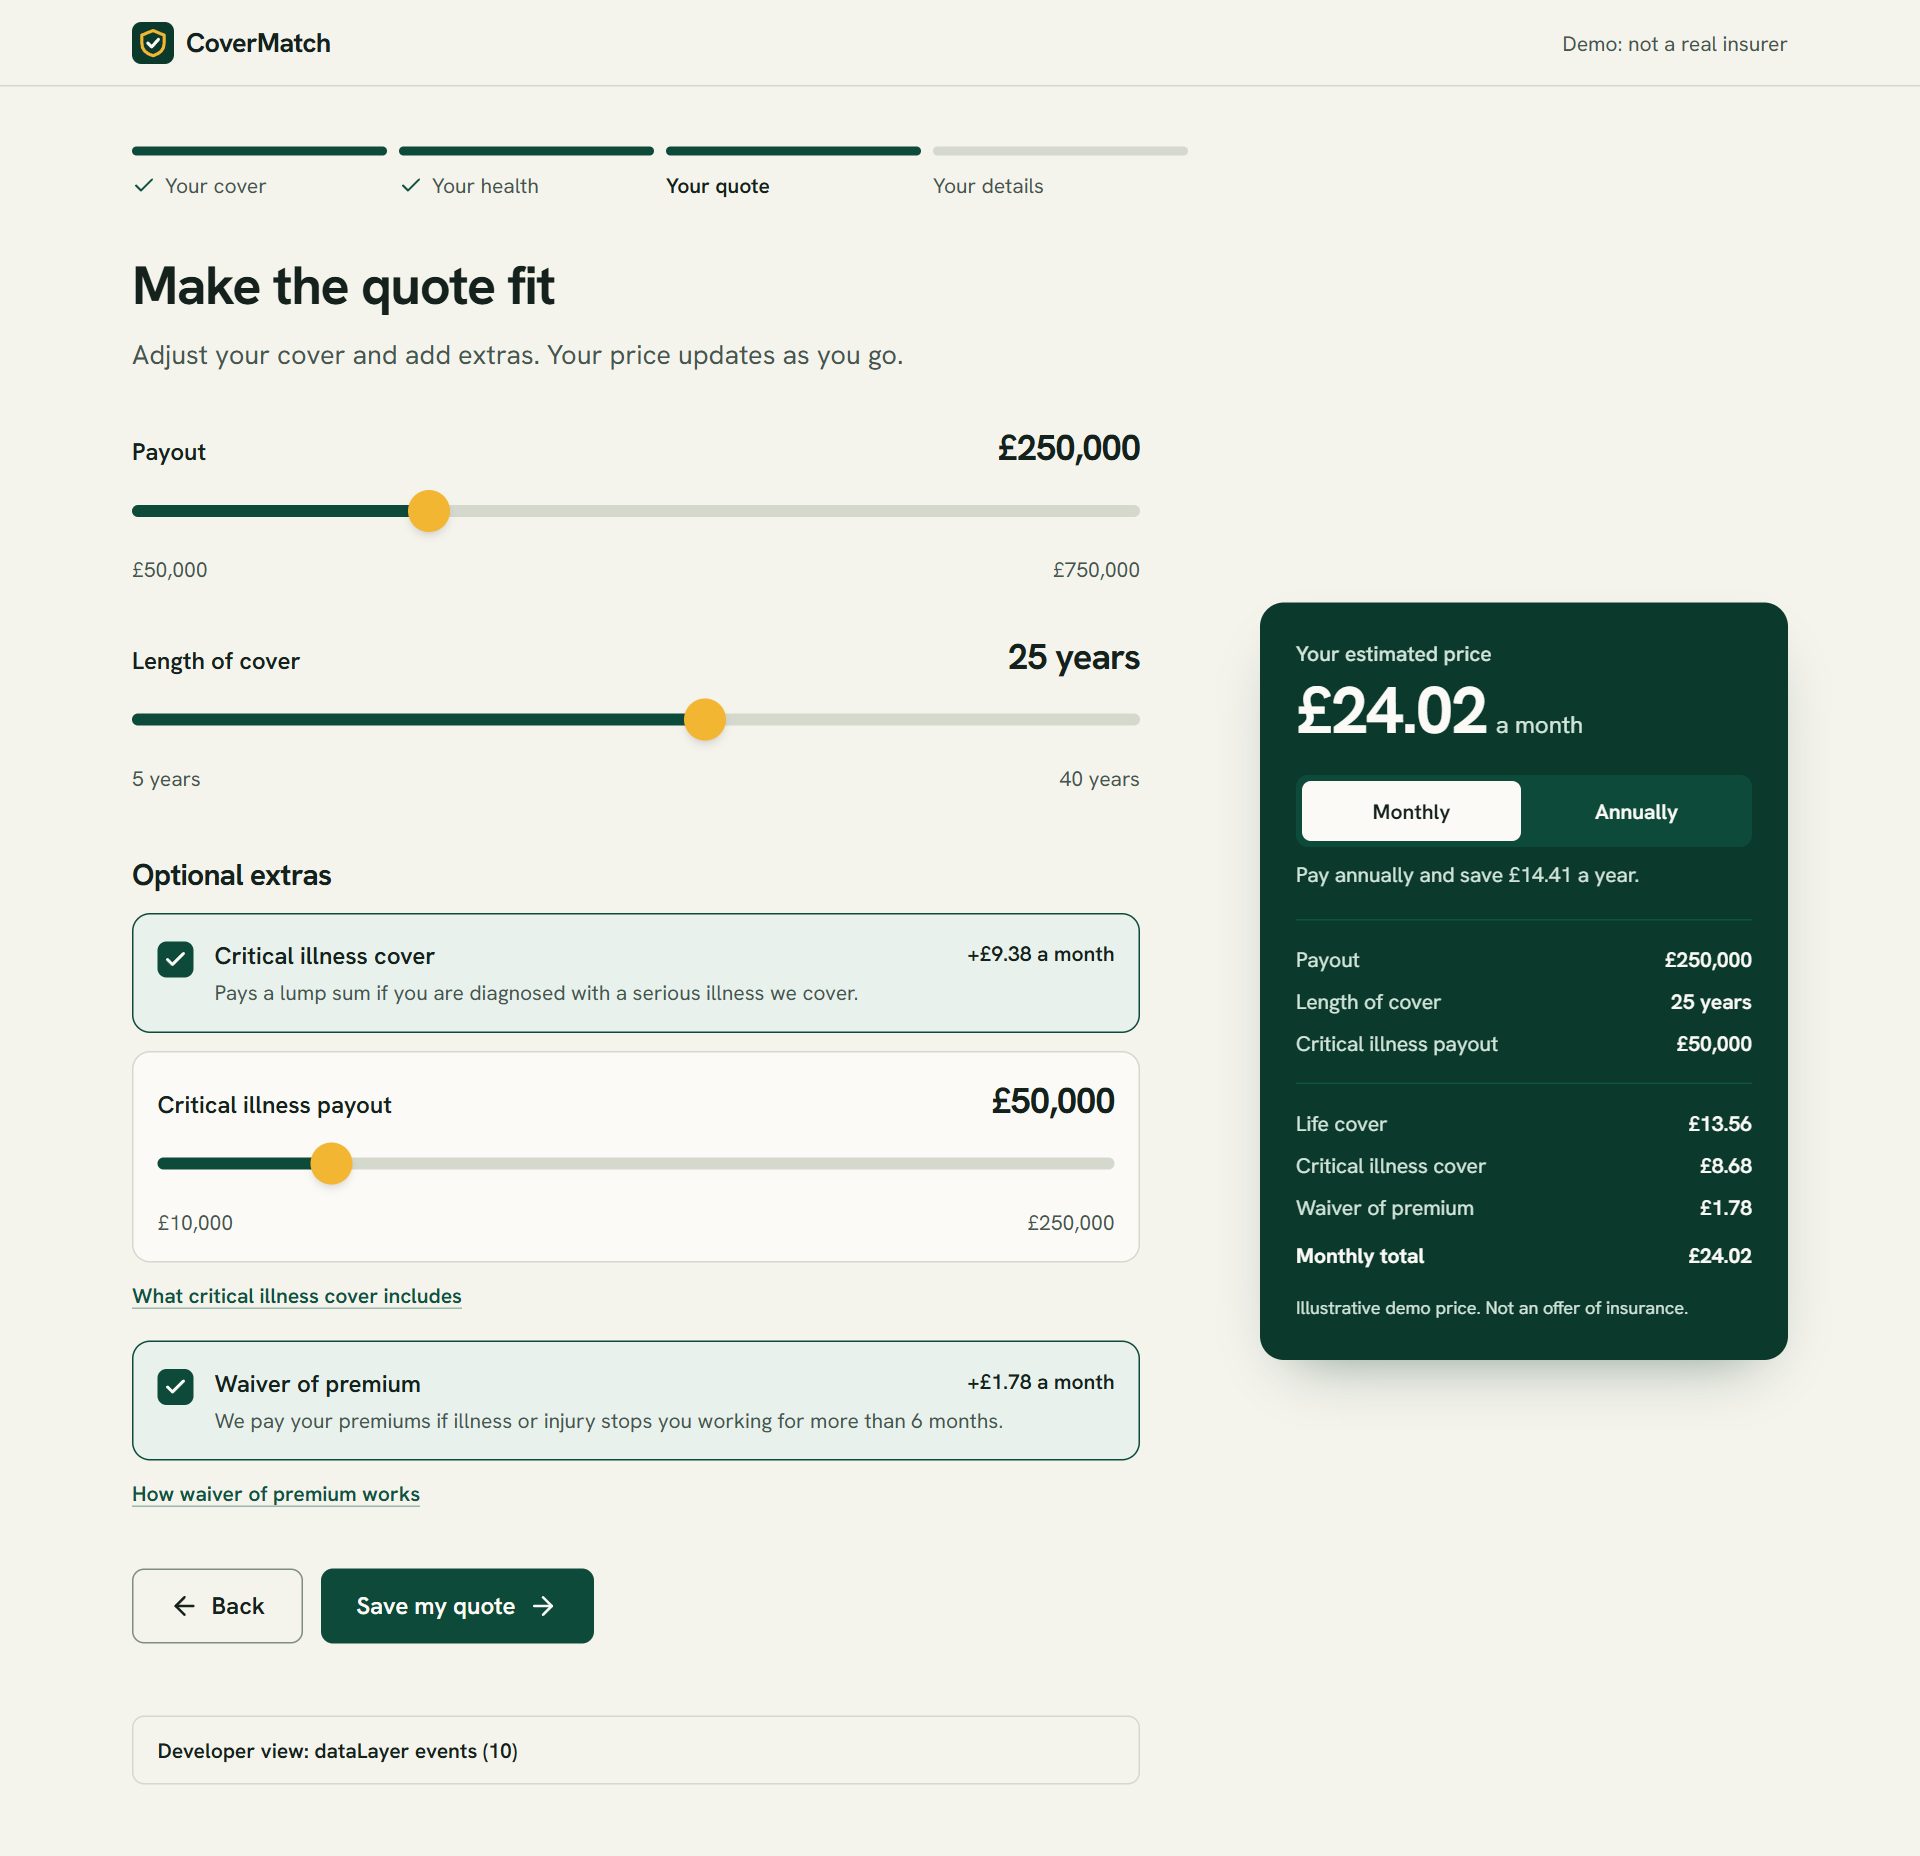
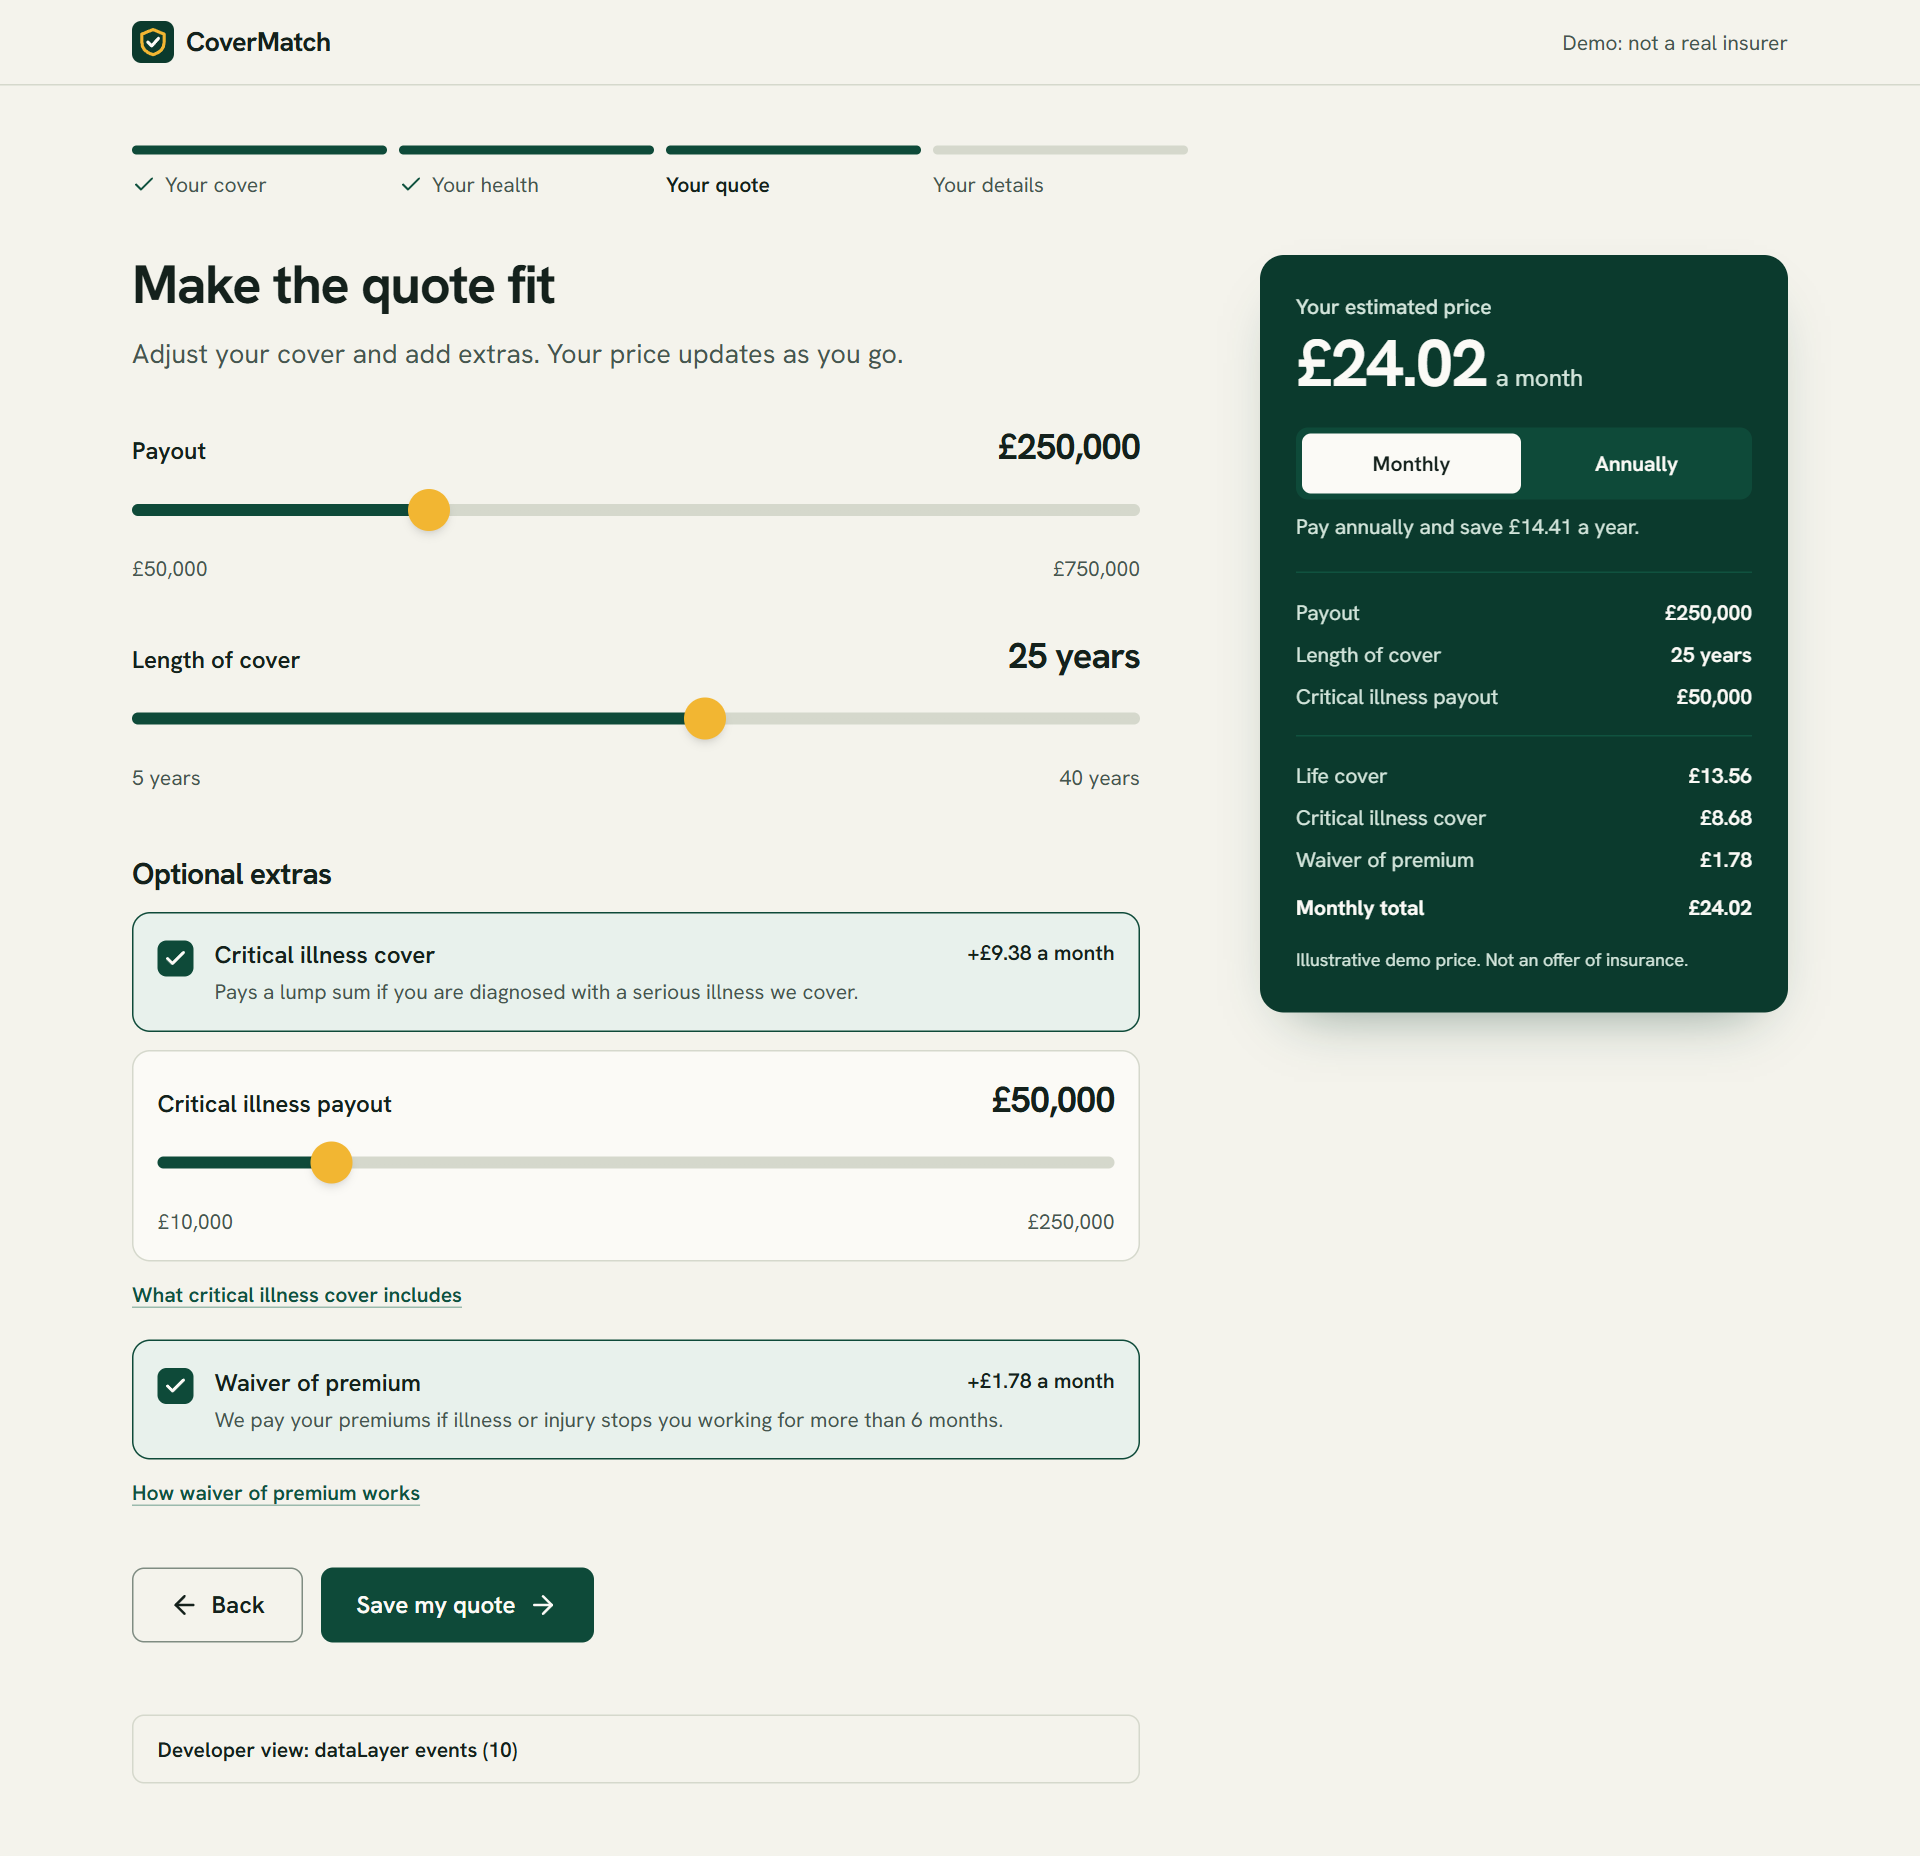
Add demo links and screenshots to the README
Retake the screenshots from the top of the page, so the sticky price
summary sits beside the heading.

diff --git a/README.md b/README.md
@@ -4,7 +4,11 @@
 
 A four-step life insurance quote and customisation funnel, built as a portfolio project with Vue 3, TypeScript and Tailwind CSS.
 
+**[Try the live demo](https://bkennerleywork-cmyk.github.io/covermatch/)** · **[Browse the components in Storybook](https://bkennerleywork-cmyk.github.io/covermatch/storybook/)**
+
 > **This is a demo.** CoverMatch is not an insurer or a broker and is not authorised by the FCA. Prices come from an illustrative model, nothing is an offer of insurance, and no data leaves the browser. The name and branding are fictional.
+
+![The quote step on desktop, with critical illness cover and waiver of premium added and the price summary beside them](docs/screenshots/step-3-quote.png)
 
 ## The journey
 
@@ -14,6 +18,17 @@ A four-step life insurance quote and customisation funnel, built as a portfolio 
 | 2. Your health | Answers nicotine and medical questions | Toggle cards, exclusive options, underwriting triage |
 | 3. Your quote | Adjusts cover, adds critical illness cover and waiver of premium | Real-time recalculation, per-add-on pricing, eligibility |
 | 4. Your details | Enters contact details and consent | Inline validation, loading, failure and retry, success, mock CRM dispatch |
+
+<table>
+  <tr>
+    <td width="62%"><img src="docs/screenshots/step-4-validation.png" alt="The lead form showing inline validation errors and a notice asking people to use made-up details" /></td>
+    <td><img src="docs/screenshots/mobile-quote.png" alt="The quote step on a phone, with the price pinned to the bottom of the screen" /></td>
+  </tr>
+  <tr>
+    <td>Inline validation on the lead form</td>
+    <td>The price stays in view on a phone</td>
+  </tr>
+</table>
 
 Two developer views are built into the page: one shows the live `dataLayer` stream, and the success screen shows the CRM payload.
 
@@ -30,7 +45,7 @@ To see the failure state, submit the form with any address ending in `@fail.test
 | Tests | Vitest, Vue Test Utils, jsdom |
 | Components | Storybook |
 | Quality | ESLint and `vue-tsc` |
-| Delivery | Docker, Docker Compose, GitHub Actions, GitLab CI |
+| Delivery | Docker, Docker Compose, GitHub Actions, GitHub Pages, GitLab CI |
 
 ## Getting started
 
@@ -138,6 +153,10 @@ The same checks are defined for two platforms: `.github/workflows/ci.yml` for Gi
 2. **test:** `vitest run` with coverage and JUnit reports, which GitLab shows on the merge request
 3. **build:** the production app and static Storybook, kept as artifacts
 
+## Deployment
+
+`.github/workflows/deploy.yml` publishes the app and Storybook to GitHub Pages after CI passes on `main`, so a failing commit never goes live. The demo asks search engines not to index it, because a fictional insurance quote should not turn up when someone is looking for real cover.
+
 ## What a live version would need
 
 - A real rating engine on the server. Client-side prices are for illustration only.
@@ -145,3 +164,7 @@ The same checks are defined for two platforms: `.github/workflows/ci.yml` for Gi
 - Real terms, a privacy notice, and consent records held on the server.
 - A consent banner that controls whether tags load at all.
 - Server-side validation and spam protection on the lead endpoint.
+
+## Licence
+
+[MIT](LICENSE)
